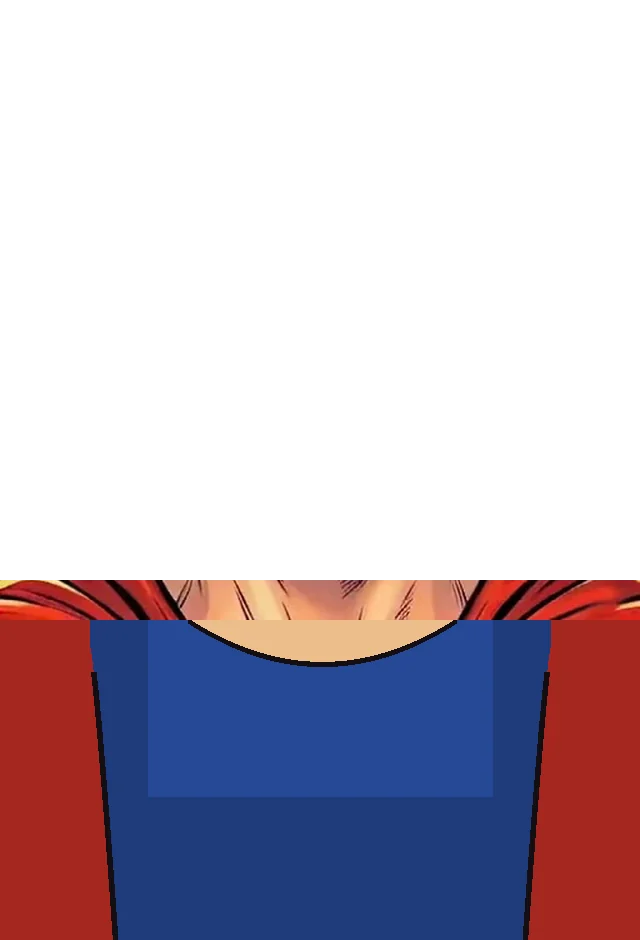
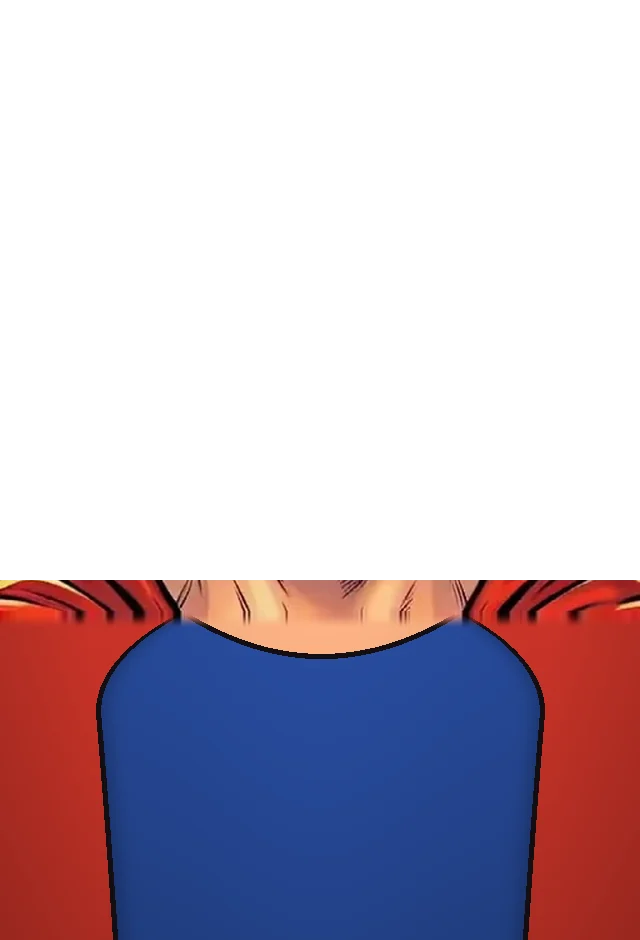
AI 말하기: 얼굴·몸통 이음새 선 제거 (Jake 목 아래 가로선·직사각형 음영)
- Jake 몸통: 망토 앞자락이 목 옆에서 시작해 팔로 휘어짐, 목선은 목 양끝에서,
  부드러운 음영(직사각형 제거), 첫 8px 은 그림 마지막 줄에서 크로스페이드
- 공통: 몸통을 이음새 4px 위부터 그림(CUT) + 얼굴 캔버스 아래 4% 마스크로 흐리게
- 몸통 그림 6장 재생성, VERSION/?v 갱신
- 브라우저 검사: 이음새 ±6px 행간 색 차이 < 20 (Jake 36.3 → 14.6)

Claude-Session: https://claude.ai/code/session_015hjUThLTRQysKjcv9vo9o2

Changed region(s): [[0.0, 0.6479, 0.9375, 0.8021], [0.4688, 0.833, 0.5312, 0.8638], [0.1562, 0.833, 0.1875, 0.8638]]

diff --git a/cloudflare-deploy/public/css/warmup-body.css b/cloudflare-deploy/public/css/warmup-body.css
@@ -8,20 +8,23 @@
    KO: 대화 화면 안에서, 공간이 있을 때만 적용합니다. 얼굴·대사가 나란한 화면(851px 이상)
        또는 위아래 배치라도 높이 900px 이상인 화면. 휴대폰은 원래 가슴 위 카드를 유지해
        「함께 말해 봐요」 버튼과 대사가 아래로 밀리지 않게 합니다.
-       몸통 그림이 카드 높이를 정하고, 얼굴 캔버스는 원래 비율 그대로 같은 자리에 겹칩니다. */
+       몸통 그림이 카드 높이를 정하고, 얼굴 캔버스는 원래 비율 그대로 같은 자리에 겹칩니다.
+   Seam / 이음새: the canvas fades out over its last 4% onto the torso, which repeats the
+       picture there (OVERLAP) and starts drawing CUT px above the seam (build-avatar-bodies.py),
+       so no line shows. 캔버스 아래 4% 를 흐리게 해 몸통 그림과 이어 붙입니다(선이 안 보이게). */
 #tavatar-ring>.wf-body{display:none;}
 
 @container(min-width:851px){
  body .wf-stage>#tavatar-wrap>#tavatar-ring.wf-has-body{height:auto!important;overflow:hidden;}
  body .wf-stage>#tavatar-wrap>#tavatar-ring.wf-has-body>.wf-body{display:block;position:relative;z-index:1;width:100%;height:auto;border-radius:14px;pointer-events:none;user-select:none;-webkit-user-drag:none;}
- body .wf-stage>#tavatar-wrap>#tavatar-ring.wf-has-body>#tavatar-canvas{position:absolute;top:4px;left:4px;width:calc(100% - 8px);height:auto;border-radius:14px 14px 0 0;}
+ body .wf-stage>#tavatar-wrap>#tavatar-ring.wf-has-body>#tavatar-canvas{position:absolute;top:4px;left:4px;width:calc(100% - 8px);height:auto;border-radius:14px 14px 0 0;-webkit-mask-image:linear-gradient(#000 96%,transparent);mask-image:linear-gradient(#000 96%,transparent);}
  body .wf-stage>#tavatar-wrap>#tavatar-ring.wf-has-body>#tavatar-video{display:none;}
 }
 @container(max-width:850px){
  @media(min-height:900px){
   body .wf-stage>#tavatar-wrap>#tavatar-ring.wf-has-body{height:auto!important;overflow:hidden;}
   body .wf-stage>#tavatar-wrap>#tavatar-ring.wf-has-body>.wf-body{display:block;position:relative;z-index:1;width:100%;height:auto;border-radius:14px;pointer-events:none;user-select:none;-webkit-user-drag:none;}
-  body .wf-stage>#tavatar-wrap>#tavatar-ring.wf-has-body>#tavatar-canvas{position:absolute;top:4px;left:4px;width:calc(100% - 8px);height:auto;border-radius:14px 14px 0 0;}
+  body .wf-stage>#tavatar-wrap>#tavatar-ring.wf-has-body>#tavatar-canvas{position:absolute;top:4px;left:4px;width:calc(100% - 8px);height:auto;border-radius:14px 14px 0 0;-webkit-mask-image:linear-gradient(#000 96%,transparent);mask-image:linear-gradient(#000 96%,transparent);}
   body .wf-stage>#tavatar-wrap>#tavatar-ring.wf-has-body>#tavatar-video{display:none;}
  }
 }

diff --git a/cloudflare-deploy/public/warmup.html b/cloudflare-deploy/public/warmup.html
@@ -5469,7 +5469,7 @@ document.addEventListener('DOMContentLoaded', function(){ try{ wuApplyStatic(); 
 <script defer src="/js/warmup-points.js?v=5"></script><!-- 🪙 «끝내고 요약 보기» 창에 받은 포인트 한 줄 (2026-11-03) / points line in the summary -->
 <link rel="stylesheet" href="/css/warmup-topbar.css?v=2" />
 <script defer src="/js/warmup-topbar.js?v=2"></script><!-- 📱 휴대폰 위쪽 버튼 한 줄 — 세로 B(아이콘 한 줄) · 가로 C(떠 있는 바 + 숨기기) (2026-11-03) / one-row top bar on phones -->
-<link rel="stylesheet" href="/css/warmup-body.css?v=1" />
-<script defer src="/js/warmup-body.js?v=1"></script><!-- 🧍 AI 말하기 몸통·팔 레이어 (얼굴 캔버스 뒤, 2026-11-01) / torso layer behind the face canvas -->
+<link rel="stylesheet" href="/css/warmup-body.css?v=2" />
+<script defer src="/js/warmup-body.js?v=2"></script><!-- 🧍 AI 말하기 몸통·팔 레이어 (얼굴 캔버스 뒤, 2026-11-01) / torso layer behind the face canvas -->
 </body>
 </html>

diff --git a/cloudflare-deploy/public/js/warmup-body.js b/cloudflare-deploy/public/js/warmup-body.js
@@ -12,7 +12,7 @@
 (function(){
   'use strict';
   if(window.MangoWarmupBody)return;
-  var VERSION=1;
+  var VERSION=2;
   var FRIENDS={emma:1,lily:1,noah:1,jake:1,mei:1,long:1};
   var ALIAS={female:'emma',male:'jake'};
   var ring=null, canvas=null, video=null, img=null, wanted='', loadSeq=0;

diff --git a/cloudflare-deploy/build-avatar-bodies.py b/cloudflare-deploy/build-avatar-bodies.py
@@ -41,6 +41,9 @@ S = 2            # output pixels per canvas pixel (sharp on 2x screens)
 EXT = 160        # canvas px of torso drawn below the seam (40% of a 400px canvas)
 OVERLAP = 20     # canvas px repeated above the seam
 BAND = 14        # canvas px sampled above the seam to learn the garment
+CUT = 4          # canvas px: the drawn torso starts this far above the seam, under the canvas's
+                 # faded bottom edge (css/warmup-body.css mask), so a picture's own last rows
+                 # (Emma's lighter bottom line) never touch the torso. Must stay < the fade.
 
 # Same sources and crop rects as mango-avatar.js CHARACTERS (read-only).
 #   canvas: the face canvas size the engine uses for that friend.
@@ -117,7 +120,7 @@ def arm_geometry(cfg: dict, W: int, ext: int):
     reveal = np.clip((y - start) / 0.18, 0, 1) ** 1.5             # crease grows in, no hard start
     d = np.minimum(np.abs(x - xl), np.abs(x - xr)) * W
     in_arm = (x < xl) | (x > xr)
-    return x, y, d, in_arm, reveal
+    return x, y, d, in_arm, reveal, xl
 
 
 def photo_torso(src: np.ndarray, seam: int, ext: int, cfg: dict, seed: int) -> np.ndarray:
@@ -138,7 +141,7 @@ def photo_torso(src: np.ndarray, seam: int, ext: int, cfg: dict, seed: int) -> n
     hf = band[..., :3] - np.asarray(bandimg.filter(ImageFilter.GaussianBlur(3 * S))).astype(np.float32)[..., :3]
     grain = fabric_noise((ext, W), np.minimum(hf.reshape(-1, 3).std(0), 6.0) * 0.45, seed)
 
-    x, y, d, in_arm, reveal = arm_geometry(cfg, W, ext)
+    x, y, d, in_arm, reveal, _ = arm_geometry(cfg, W, ext)
     blend = (np.clip(y / 0.22, 0, 1) ** 1.2)[..., None]
     colour = edge[None] * (1 - blend) + col_g[None] * blend
     colour = colour + grain * np.clip(y / 0.06, 0, 1)[..., None]
@@ -162,24 +165,36 @@ def photo_torso(src: np.ndarray, seam: int, ext: int, cfg: dict, seed: int) -> n
 
 
 def comic_torso(src: np.ndarray, seam: int, ext: int, cfg: dict) -> np.ndarray:
-    """Jake is a comic drawing whose cut falls on the neck: draw a plain hero suit
-    (no logo) in the picture's own palette, flat cel shading and ink outlines."""
+    """Jake is a comic drawing whose cut falls on the neck: grow a plain hero suit (no logo)
+    out of the cut itself, so nothing changes at the seam. The cape's front edge starts at
+    the neck, where the picture's cape ends, and sweeps out to the arm; the neckline starts
+    at the neck's own edges; colours come from the picture; light is smooth (no flat
+    blocks); and the first rows cross-fade from the picture's last row."""
     W = src.shape[1]
     ink = np.array(cfg['ink'], np.float32)
     last = src[seam - 2 * S:seam]
     a = last[..., 3].mean(0)
     rgb_last = last[..., :3].mean(0)
-    skin = np.array([236, 190, 140], np.float32)
-    is_skin = (a > 200) & (np.linalg.norm(rgb_last - skin, axis=1) < 70)
+    skin_ref = np.array([236, 190, 140], np.float32)
+    is_skin = (a > 200) & (np.linalg.norm(rgb_last - skin_ref, axis=1) < 70)
+    is_skin[:int(W * 0.2)] = is_skin[int(W * 0.8):] = False       # the neck is central
     reds = rgb_last[(a > 200) & (rgb_last[:, 0] > 150) & (rgb_last[:, 1] < 90)]
     red = reds.mean(0) if len(reds) else np.array([200, 40, 30], np.float32)
+    skin = rgb_last[is_skin].mean(0) if is_skin.any() else skin_ref
     blue = np.array([38, 72, 150], np.float32)                     # suit body
     xs = np.where(is_skin)[0]
     nl, nr = (xs.min(), xs.max()) if len(xs) else (int(W * 0.35), int(W * 0.65))
 
-    x, y, d, in_arm, reveal = arm_geometry(cfg, W, ext)
-    yy = y * ext
-    xx = x * W
+    x, y, _, _, _, xl = arm_geometry(cfg, W, ext)
+    yy, xx = y * ext, x * W
+    # cape front edges: from the neck at the seam (where the picture's cape ends) out to
+    # the arm creases, ease-out; below that they are the arm creases.
+    sweep = 1 - (1 - np.clip(y / 0.32, 0, 1)) ** 2
+    el = nl / W + (xl - nl / W) * sweep
+    er = nr / W + (1 - xl - nr / W) * sweep
+    in_cape = (x < el) | (x > er)
+    dc = np.minimum(np.abs(x - el), np.abs(x - er)) * W            # px to a cape edge
+    ax = np.abs(x - 0.5)
     # neckline: a shallow U joining the skin edges of the neck.
     cx, half = (nl + nr) / 2, max((nr - nl) / 2, 1)
     u = np.clip(1 - ((xx - cx) / half) ** 2, 0, 1)
@@ -187,33 +202,42 @@ def comic_torso(src: np.ndarray, seam: int, ext: int, cfg: dict) -> np.ndarray:
     in_neck = (np.abs(xx - cx) < half) & (yy < neck_y)
     rgb = np.empty((ext, W, 3), np.float32)
     rgb[:] = blue
-    rgb[in_arm] = red                                              # cape over the arms
+    rgb[in_cape] = red
     rgb[in_neck] = skin
-    # cel shading: one darker tone on the lower half and away from centre.
-    shade = (y > 0.55) | (np.abs(x - 0.5) > 0.27)
-    rgb[shade & ~in_neck] *= 0.82
-    # ink: arm crease lines and the neckline.
-    line = (d < 1.4 * S) & (reveal > 0.3)
+    # smooth light: darker downwards, chest centre brighter, soft depth beside the cape.
+    light = (1.0 - 0.16 * y ** 1.2) * (1.0 + 0.07 * np.exp(-((x - 0.5) / 0.2) ** 2))
+    light = light * (1 - 0.18 * np.exp(-(dc / (7 * S)) ** 2) * ~in_cape)
+    light = light * (1 - 0.10 * np.clip((ax - 0.36) / 0.14, 0, 1) * in_cape)
+    rgb *= light[..., None]
+    # ink: one line along the cape edge (the neck outline continues into it) and the neckline.
+    line = dc < 1.3 * S
     line |= (np.abs(yy - neck_y) < 1.3 * S) & (np.abs(xx - cx) < half)
     rgb[line] = ink
     alpha = np.full((ext, W), 255, np.float32)
     alpha[:, (src[seam - 1, :, 3] < 10)] = 0                       # keep the picture's side margins
-    return np.dstack([rgb, alpha])
+    # first rows: cross-fade from the picture's own last row, so the cut never shows.
+    t = np.clip(yy[:, :1] / (8 * S), 0, 1)
+    t = t * t * (3 - 2 * t)
+    row = src[seam - 1]
+    rgb = row[None, :, :3] * (1 - t[..., None]) + rgb * t[..., None]
+    alpha = row[None, :, 3] * (1 - t) + alpha * t
+    return np.dstack([rgb.clip(0, 255), alpha])
 
 
 def build(name: str, cfg: dict) -> Image.Image:
     cw, ch = cfg['canvas']
     W, seam, ext = cw * S, ch * S, EXT * S
     src = to_canvas(name, cfg)
+    top = seam - CUT * S                                           # first drawn row
     if cfg['ink'] is None:
-        body = photo_torso(src, seam, ext, cfg, seed=sum(map(ord, name)))
+        body = photo_torso(src, top, seam + ext - top, cfg, seed=sum(map(ord, name)))
     else:
-        body = comic_torso(src, seam, ext, cfg)
+        body = comic_torso(src, top, seam + ext - top, cfg)
 
     # 5) assemble: transparent canvas area, overlap band of real pixels, drawn torso.
     full = np.zeros((seam + ext, W, 4), np.float32)
-    full[seam - OVERLAP * S:seam] = src[seam - OVERLAP * S:seam]
-    full[seam:] = body
+    full[seam - OVERLAP * S:top] = src[seam - OVERLAP * S:top]
+    full[top:] = body
     return Image.fromarray(full.round().astype(np.uint8), 'RGBA')
 
 

diff --git a/docs/작업기록/261110_AI말하기_몸통_이음새_선_제거.md b/docs/작업기록/261110_AI말하기_몸통_이음새_선_제거.md
@@ -1,0 +1,44 @@
+# AI 말하기 — 얼굴·몸통 이음새 선 제거 (Jake)
+
+- 날짜: 2026-11-10
+- 작업자: Claude (사장님 요청)
+- 브랜치 / PR: `claude/avatar-body-seam`
+
+## 1. 왜 했나 / Why
+사장님 화면(웜업 대화 카드, Jake): 「여기 선이 보이고 부자연스러워. 최대한 선 안 보이고 자연스럽게」.
+목·어깨 아래에서 가로선이 그어지고, 파란 옷 가운데에 밝은 직사각형이 보였다.
+
+## 2. 원인 / Cause
+- 얼굴 캔버스(가슴 위)와 몸통 그림(`img/bodies/<친구>-body.webp`)의 경계.
+- Jake 몸통(`build-avatar-bodies.py` `comic_torso`)이 이음새 바로 아래에서 **단색 블록**으로 시작:
+  그림 속 망토는 목까지 빨강인데 몸통은 목 옆이 바로 파랑 → 가로선.
+- 음영이 `(y > 0.55) | (|x-0.5| > 0.27)` 조건의 **직사각형**이라 가운데 밝은 사각형이 생김.
+- Emma 는 원본 그림 맨 아래 2줄이 밝아(테두리 잡티) 얇은 밝은 줄이 보였다(약함).
+
+## 3. 무엇을 바꿨나 / Changes
+- `cloudflare-deploy/build-avatar-bodies.py`
+  - Jake: 망토 앞자락이 **목 옆(그림 속 망토가 끝나는 곳)에서 시작해 팔로 휘어져** 내려감,
+    목선 U 는 목의 실제 양끝에서 시작, 피부색은 그림에서 뽑음, 음영은 부드러운 그라데이션,
+    첫 8px 은 그림의 마지막 줄에서 **크로스페이드**.
+  - 공통: `CUT = 4` — 몸통 그리기를 이음새보다 4px 위에서 시작(원본 맨 아래 잡티가 몸통에 안 닿게).
+  - 6명 몸통 그림 재생성(`img/bodies/*.webp`).
+- `public/css/warmup-body.css`: 얼굴 캔버스 아래 4% 를 `mask-image` 로 흐리게 → 몸통과 자연스럽게 이어짐.
+  (아래 4% 는 몸통 그림의 OVERLAP 20px 안이라 그 밑은 같은 그림 — 겹쳐도 안 보임)
+- `public/js/warmup-body.js` `VERSION=2`(이미지 캐시 갱신), `warmup.html` `?v=2`.
+- `test-harness/manual/warmup-body-browser.mjs`: 친구마다 「이음새 ±6px 안 행간 색 차이 < 20」 검사 추가.
+
+## 4. 검토했다가 버린 방법 / Rejected
+- **CSS 마스크만**: Jake 는 색 블록 자체가 어긋나 흐리기만 하면 빨강→파랑 번짐이 남는다.
+- **이음새 아래 전체를 세로로 길게 크로스페이드**: 만화 그림에서 얼룩처럼 번져 더 부자연스럽다.
+- **얼굴 엔진(mango-avatar.js) 수정**: 범위 밖 · 입모양·눈 깜박임에 위험. 손대지 않음.
+
+## 5. 확인한 방법 / Verified
+- 로컬 크로미움 스크린샷(1366×900): Jake 이음새 최대 행간 차이 **36.3 → 14.6**(남은 값은 목선 잉크선),
+  Emma 3.2 → 1.0, 나머지 친구 ≤ 2.
+- `manual/warmup-body-browser.mjs` 66 PASS(옛 그림으로 되돌리면 Jake 검사 FAIL 확인).
+- `tsc --noEmit` 통과, `run.mjs --fast` PASS 735 · SKIP 20 · FAIL 0.
+
+## 6. 남은 것 / Notes
+- 휴대폰(가로 851px 미만·높이 900px 미만)은 몸통을 안 쓰므로 변화 없음.
+- 사진 친구들의 몸통 아래쪽 «흐릿한 질감» 은 이번 범위 밖(손대지 않음).
+- 실제 배포 화면은 사람이 한 번 봐야 끝(프록시가 mangoi.ai 를 막음).

diff --git a/docs/INDEX.md b/docs/INDEX.md
@@ -1047,3 +1047,4 @@
 
 - [2026-11-10 화상수업 — 떠 있는 얼굴(카메라) 창을 끌어서 옮기기 (필기도구 가림 제보)](작업기록/261110_화상수업_떠있는_얼굴창_끌어서_옮기기.md)
 - [2026-11-10 관리자 「오늘 수업」 — 새로고침해도 날짜·학원·강사 유지](작업기록/261110_관리자_오늘수업_새로고침_날짜강사_유지.md)
+- [2026-11-10 AI 말하기 — 얼굴·몸통 이음새 선 제거 (Jake)](작업기록/261110_AI말하기_몸통_이음새_선_제거.md)
